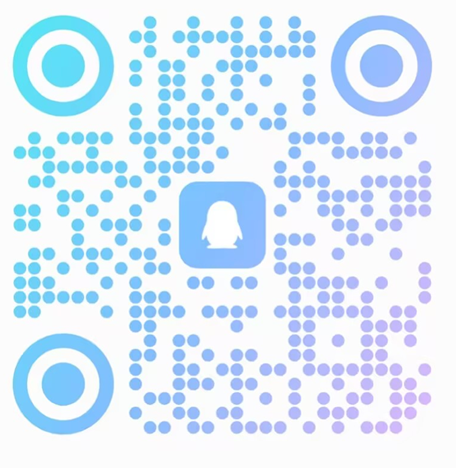
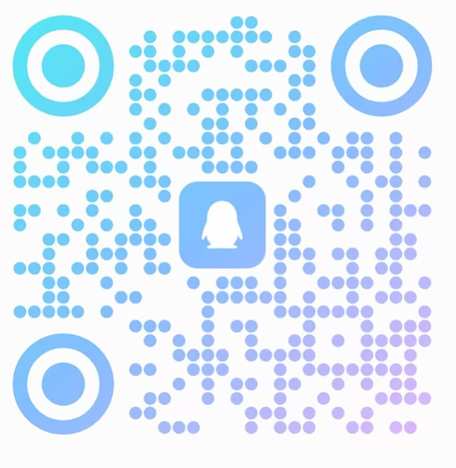
chore: 更新交流群二维码与群名
群名由「slsq 风扇俱乐部」改为「slsq onlyfans club」，二维码一并更换（群号不变：1124017564）。

- public/qq-group.png     带群名的卡片图（README 用）
- public/qq-group-qr.png  纯二维码（应用内弹窗用）
- 同步更新 README、设置页与发布说明里的群名
- 冒烟测试增加群名校验

diff --git a/public/index.html b/public/index.html
@@ -262,7 +262,7 @@
     <div class="qr-pop hidden" id="qq-pop">
       <img src="/qq-group-qr.png" alt="QQ 群 1124017564 二维码" />
       <div>
-        <strong>slsq 风扇俱乐部</strong>
+        <strong>slsq onlyfans club</strong>
         <p class="subtle">QQ 群 1124017564</p>
         <p class="subtle">用手机 QQ 扫一扫加入</p>
       </div>

diff --git a/README.md b/README.md
@@ -182,7 +182,7 @@ data/trainer.db           你的所有数据（可随时删除重建）
 
 用着有问题、想要什么功能，或者只是想找同好一起刷题，都欢迎加群。群里也会同步这个项目的更新。
 
-**QQ 群：1124017564**（slsq 风扇俱乐部）
+**QQ 群：1124017564**（slsq onlyfans club）
 
 手机 QQ 扫一扫下面的二维码就能进：
 
